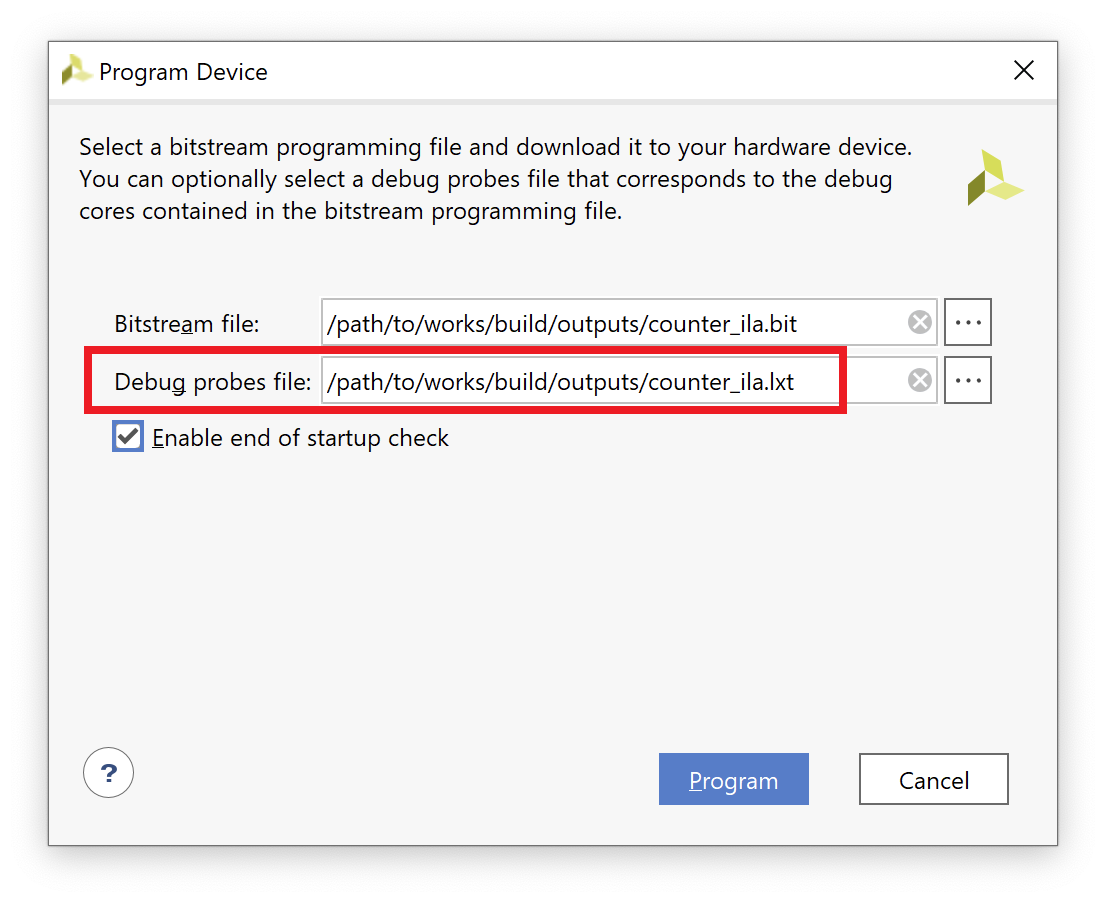
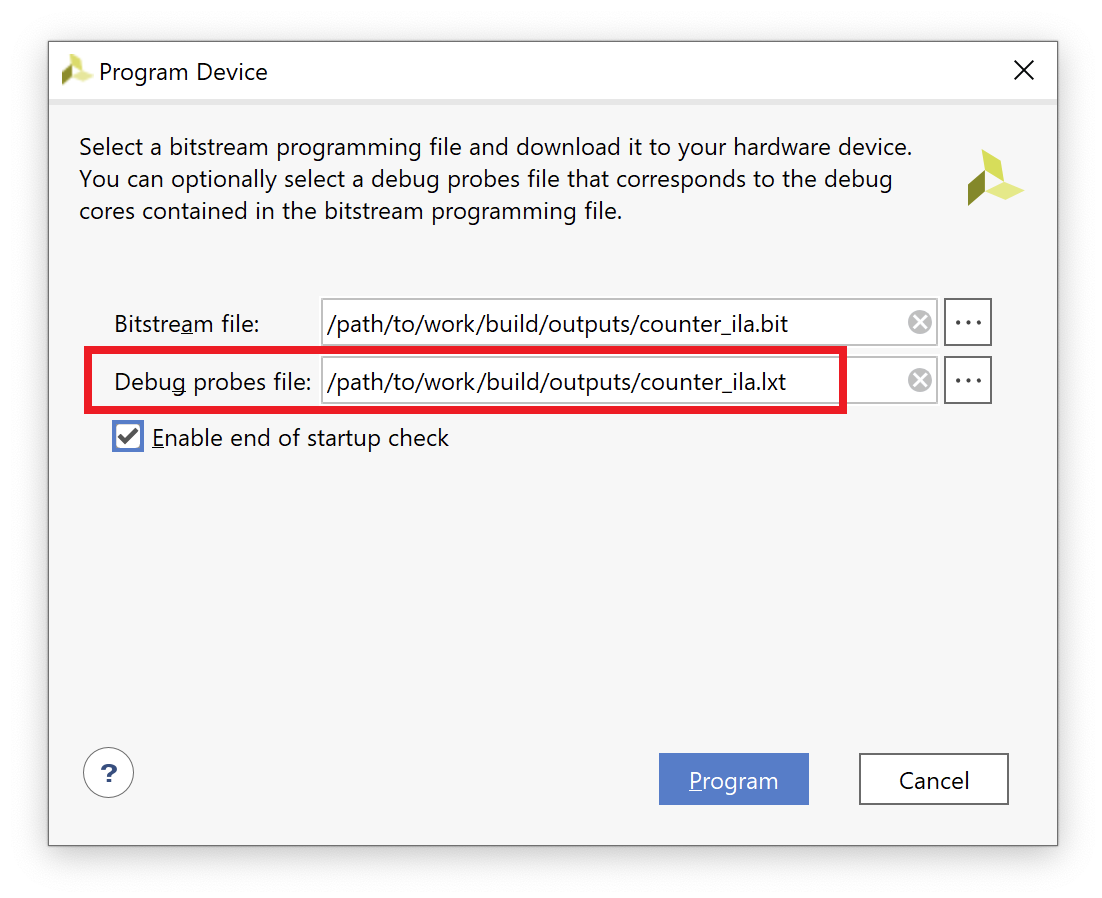
ENH: pictures

Changed region(s): [[0.4319, 0.343, 0.7405, 0.3742], [0.4319, 0.4053, 0.7096, 0.4365]]

diff --git a/fpga/practicum/14_vio/README.md b/fpga/practicum/14_vio/README.md
@@ -174,6 +174,10 @@ At this point try yourself to **complete the template RTL code** in order to **i
 to drive both reset and enable control signals for the counter **from the VIO core** in combination with
 real external reset and enable input signals coming from physical push-button/switch on the _Arty_ board.
 
+Pay attention in implementing logic functions required to merge `reset` with `reset_from_vio`
+and `enable` with `enable_from_vio` wires. In practice by default the presence of the VIO core in the
+code has to be "seamless".
+
 <br />
 <!--------------------------------------------------------------------->
 
@@ -254,6 +258,10 @@ design.
 
 <br />
 
+<img src="doc/pictures/counter_vio_vivado.png" alt="drawing"/>
+
+<br /><br />
+
 Then **export the probes file** by running the following command in the Vivado Tcl console:
 
 ```
@@ -311,21 +319,42 @@ standalone as usual:
 
 <br />
 
-Establish a new connection between the _Hardware Manager_ and the _Arty_ board and re-program the FPGA.
-To do this, simply left-click on **Open target > Auto Connect**, then right-click
-on the `xc7a35t` device, select **Program Device...** and specify **both** the **bitstream file** (`.bit`)
-and the **debug probes file** (`.ltx`).
+Establish a new connection between the _Hardware Manager_ and the _Arty_ board.
+To do this, simply left-click on **Open target > Auto Connect** as usual.
 
-Once the FPGA has been successfully programmed the _Hardware Manager_ displays the **VIO Default Dashboard**.
-This window allows you to create **virtual push-buttons and slide-switches** to force/release
+Once the FPGA has been successfully recognized the _Hardware Manager_ displays the **VIO Default Dashboard**
+as in picture.
+
+<br />
+
+<img src="doc/pictures/DashboardSpecifyProbesFile.png" alt="drawing"/>
+
+<br /><br />
+
+In order to be able to interact with the VIO core you have to specify the **debug probes file** (`.ltx`)
+and to **refresh** the device as suggested.
+
+<br />
+
+<img src="doc/pictures/RefreshDevice.png" alt="drawing" width="500"/>
+
+<br /><br />
+
+At this point the VIO dashboard allows you to create **virtual push-buttons and slide-switches** to force/release
 remotely FPGA internal signals in place of real physical switches.
 
-Try yourself to create for the counter
+Try yourself to add both `reset_int` and `enable_int` probes into the dashboard and to create for the counter
 
 * a virtual active-low push-button for the reset and
 * a virtual slide-switch for the enable
 
 then play with these virtual stimuli and debug the functionality of the firmware.
+
+<br />
+
+<img src="doc/pictures/DashboardAddProbes.png" alt="drawing"/>
+
+<br />
 
 <br />
 <!--------------------------------------------------------------------->

diff --git a/fpga/practicum/13_ila/README.md b/fpga/practicum/13_ila/README.md
@@ -304,11 +304,11 @@ design.
 
 <br />
 
-<!-- img src="doc/pictures/counter_ila_vivado.png" alt="drawing"  >
+<img src="doc/pictures/counter_ila_vivado.png" alt="drawing"  >
 
 <br /><br />
 
-In order to **export the probes file** run the following command in the Vivado Tcl console:
+In order to **export the debug probes file** run the following command in the Vivado Tcl console:
 
 ```
 write_debug_probes ./work/build/outputs/counter_ila.ltx
